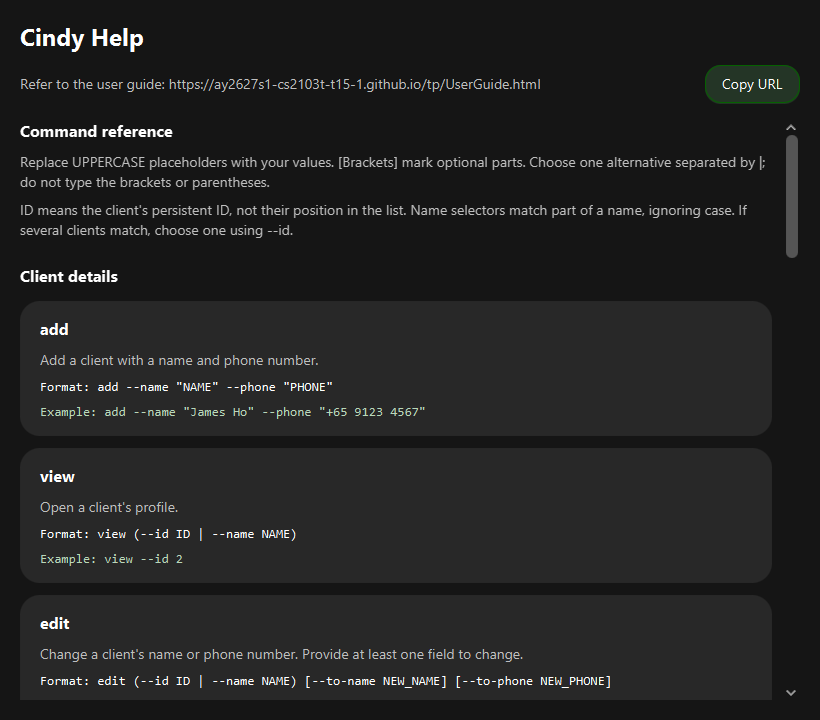
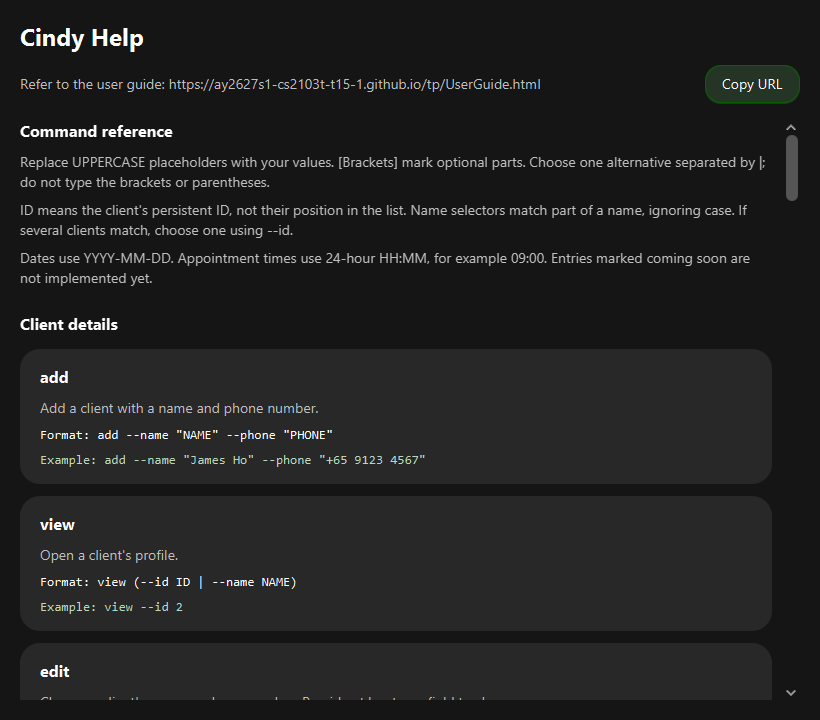
Add new command forms to Help

diff --git a/src/main/java/seedu/address/ui/HelpContent.java b/src/main/java/seedu/address/ui/HelpContent.java
@@ -2,30 +2,35 @@ package seedu.address.ui;
 
 import java.util.List;
 
+import seedu.address.logic.commands.AddAppointmentCommand;
 import seedu.address.logic.commands.AddCommand;
 import seedu.address.logic.commands.ClearCommand;
 import seedu.address.logic.commands.DeleteCommand;
 import seedu.address.logic.commands.EditCommand;
 import seedu.address.logic.commands.ExitCommand;
 import seedu.address.logic.commands.FindCommand;
+import seedu.address.logic.commands.GroupCommand;
 import seedu.address.logic.commands.HelpCommand;
 import seedu.address.logic.commands.ListCommand;
 import seedu.address.logic.commands.NoteCommand;
 import seedu.address.logic.commands.PlanCommand;
+import seedu.address.logic.commands.SessionCommand;
 import seedu.address.logic.commands.SetActiveCommand;
 import seedu.address.logic.commands.TagCommand;
 import seedu.address.logic.commands.ViewCommand;
 
 /**
  * Provides the command reference for the help window, independently of JavaFX controls.
- * Add entries when commands become available in the application parser.
+ * Mark planned commands as unavailable until the application parser implements them.
  */
 public final class HelpContent {
     private static final String CLIENT_DETAILS = "Client details";
     private static final String FINDING_CLIENTS = "Finding clients";
     private static final String TRAINING_INFORMATION = "Training information";
     private static final String CLIENT_STATUS = "Client status";
-    private static final String CLIENT_TYPE = "Client type";
+    private static final String CLIENT_TYPE = "Client types and groups";
+    private static final String APPOINTMENTS = "Appointments";
+    private static final String SESSIONS = "Session records";
     private static final String APPLICATION = "Application";
 
     private static final String CLIENT_SELECTOR = "(--id ID | --name NAME)";
@@ -55,10 +60,14 @@ public final class HelpContent {
                     "Show all clients.",
                     ListCommand.COMMAND_WORD,
                     "list"),
+            new CommandSummary(FINDING_CLIENTS, ListCommand.COMMAND_WORD,
+                    "Show clients with appointments today. This command option is not implemented yet.",
+                    ListCommand.COMMAND_WORD + " --today",
+                    "list --today", false),
             new CommandSummary(FINDING_CLIENTS, FindCommand.COMMAND_WORD,
                     "Find clients using at least one filter. Clients must match every supplied filter.",
-                    FindCommand.COMMAND_WORD + " [--name NAME] [--phone PHONE] [--id ID]",
-                    "find --name james --phone 9123"),
+                    FindCommand.COMMAND_WORD + " [--name NAME] [--phone PHONE] [--id ID] [--group GROUP]",
+                    "find --group morning --name james"),
             new CommandSummary(TRAINING_INFORMATION, NoteCommand.COMMAND_WORD,
                     "Replace a client's note. Double quotes are required; "
                             + "use \"\" to clear it and \\n for line breaks.",
@@ -80,6 +89,56 @@ public final class HelpContent {
                     "Set a client's type to gym or personal, replacing their previous type.",
                     TagCommand.COMMAND_WORD + " " + CLIENT_SELECTOR + " --type (gym | personal)",
                     "tag --id 2 --type gym"),
+            new CommandSummary(CLIENT_TYPE, GroupCommand.COMMAND_WORD,
+                    "Create a custom group. Group names use letters and digits; gym and personal are reserved.",
+                    GroupCommand.COMMAND_WORD + " --name GROUP",
+                    "group --name morning"),
+            new CommandSummary(CLIENT_TYPE, TagCommand.COMMAND_WORD,
+                    "Add a client to an existing custom group. Create the group first with group --name GROUP.",
+                    TagCommand.COMMAND_WORD + " " + CLIENT_SELECTOR + " --group GROUP",
+                    "tag --id 2 --group morning"),
+            new CommandSummary(CLIENT_TYPE, TagCommand.COMMAND_WORD,
+                    "Remove a tag from a client, keeping the group and the client's other details.",
+                    TagCommand.COMMAND_WORD + " " + CLIENT_SELECTOR + " --untag TAG",
+                    "tag --id 2 --untag morning"),
+            new CommandSummary(CLIENT_TYPE, GroupCommand.COMMAND_WORD,
+                    "Move a client between existing custom groups. The client must be in the source group.",
+                    GroupCommand.COMMAND_WORD + " --move " + CLIENT_SELECTOR + " --from GROUP --to GROUP",
+                    "group --move --id 2 --from morning --to evening"),
+            new CommandSummary(CLIENT_TYPE, TagCommand.COMMAND_WORD,
+                    "Delete a custom group and remove it from every client. gym and personal cannot be deleted.",
+                    TagCommand.COMMAND_WORD + " --delete --group GROUP",
+                    "tag --delete --group morning"),
+            new CommandSummary(APPOINTMENTS, AddAppointmentCommand.COMMAND_WORD,
+                    "Replace a client's appointments with four weekly appointments, starting on the given date.",
+                    AddAppointmentCommand.COMMAND_WORD + " --add " + CLIENT_SELECTOR
+                            + " --date YYYY-MM-DD --time HH:MM",
+                    "appointment --add --id 2 --date 2026-10-26 --time 09:00"),
+            new CommandSummary(APPOINTMENTS, AddAppointmentCommand.COMMAND_WORD,
+                    "Show all clients' appointments on a date, including cancelled appointments.",
+                    AddAppointmentCommand.COMMAND_WORD + " --date YYYY-MM-DD",
+                    "appointment --date 2026-10-26"),
+            new CommandSummary(APPOINTMENTS, AddAppointmentCommand.COMMAND_WORD,
+                    "Show appointments in the Monday to Sunday week containing the date, including cancellations.",
+                    AddAppointmentCommand.COMMAND_WORD + " --week YYYY-MM-DD",
+                    "appointment --week 2026-10-26"),
+            new CommandSummary(APPOINTMENTS, AddAppointmentCommand.COMMAND_WORD,
+                    "Cancel an appointment without deleting it. INDEX is its number in the client's profile (1 to 4).",
+                    AddAppointmentCommand.COMMAND_WORD + " --cancel " + CLIENT_SELECTOR + " --index INDEX",
+                    "appointment --cancel --id 2 --index 1"),
+            new CommandSummary(APPOINTMENTS, AddAppointmentCommand.COMMAND_WORD,
+                    "Change an appointment's date and time. A cancelled appointment becomes active again.",
+                    AddAppointmentCommand.COMMAND_WORD + " --reschedule " + CLIENT_SELECTOR
+                            + " --index INDEX --date YYYY-MM-DD --time HH:MM",
+                    "appointment --reschedule --id 2 --index 1 --date 2026-10-27 --time 18:00"),
+            new CommandSummary(SESSIONS, SessionCommand.COMMAND_WORD,
+                    "Record a dated session with an optional note. Only one session per client per date is allowed.",
+                    SessionCommand.COMMAND_WORD + " --add " + CLIENT_SELECTOR + " --date YYYY-MM-DD [--note TEXT]",
+                    "session --add --id 2 --date 2026-10-22 --note \"Squats: 3 sets\""),
+            new CommandSummary(SESSIONS, SessionCommand.COMMAND_WORD,
+                    "Replace an existing session's note. Use --note without text to clear it.",
+                    SessionCommand.COMMAND_WORD + " --edit " + CLIENT_SELECTOR + " --date YYYY-MM-DD --note [TEXT]",
+                    "session --edit --id 2 --date 2026-10-22 --note \"Improved squat depth\""),
             new CommandSummary(APPLICATION, ClearCommand.COMMAND_WORD,
                     "Show a confirmation prompt. With --confirm, permanently delete all clients and reset IDs to 1.",
                     ClearCommand.COMMAND_WORD + " [--confirm]",

diff --git a/src/test/java/seedu/address/ui/HelpContentTest.java b/src/test/java/seedu/address/ui/HelpContentTest.java
@@ -6,6 +6,7 @@ import static org.junit.jupiter.api.Assertions.assertThrows;
 import static org.junit.jupiter.api.Assertions.assertTrue;
 
 import java.util.HashSet;
+import java.util.List;
 import java.util.Set;
 
 import org.junit.jupiter.api.Test;
@@ -18,14 +19,13 @@ import seedu.address.logic.parser.AddressBookParser;
 public class HelpContentTest {
 
     @Test
-    public void getCommands_currentParserCommands_coversEachCommandOnce() {
+    public void getCommands_currentParserCommands_coversEveryCommandFamily() {
         Set<String> expectedCommands = Set.of("add", "view", "edit", "delete", "list", "find", "note", "plan",
-                "active", "inactive", "tag", "clear", "help", "exit");
+                "active", "inactive", "tag", "group", "appointment", "session", "clear", "help", "exit");
         Set<String> actualCommands = new HashSet<>();
 
         for (CommandSummary summary : HelpContent.getCommands()) {
-            assertTrue(actualCommands.add(summary.getCommandWord()),
-                    "Duplicate help entry: " + summary.getCommandWord());
+            actualCommands.add(summary.getCommandWord());
         }
 
         assertEquals(expectedCommands, actualCommands);
@@ -34,13 +34,34 @@ public class HelpContentTest {
     @Test
     public void getCommands_examples_parseAsTheirAdvertisedCommands() throws Exception {
         AddressBookParser parser = new AddressBookParser();
+        Set<String> expectedTypes = Set.of("AddCommand", "ViewCommand", "EditCommand", "DeleteCommand",
+                "ListCommand", "FindCommand", "NoteCommand", "PlanCommand", "SetActiveCommand", "TagCommand",
+                "GroupCommand", "MoveGroupCommand", "AddToGroupCommand", "UntagCommand", "DeleteGroupCommand",
+                "AddAppointmentCommand", "CancelAppointmentCommand", "RescheduleAppointmentCommand",
+                "ListAppointmentsCommand", "AddSessionCommand", "EditSessionCommand", "ClearCommand",
+                "HelpCommand", "ExitCommand");
+        Set<String> actualTypes = new HashSet<>();
+        Set<String> formats = new HashSet<>();
 
         for (CommandSummary summary : HelpContent.getCommands()) {
+            assertTrue(formats.add(summary.getSyntax()), "Duplicate command format: " + summary.getSyntax());
+            if (!summary.isAvailable()) {
+                continue;
+            }
             String example = summary.getExample();
             assertEquals(summary.getCommandWord(), example.split("\\s+", 2)[0]);
             assertTrue(summary.getSyntax().startsWith(summary.getCommandWord()));
-            parser.parseCommand(example);
+            actualTypes.add(parser.parseCommand(example).getClass().getSimpleName());
         }
+        assertEquals(expectedTypes, actualTypes);
+    }
+
+    @Test
+    public void getCommands_upcomingForms_onlyListsToday() {
+        List<CommandSummary> upcoming = HelpContent.getCommands().stream()
+                .filter(summary -> !summary.isAvailable()).toList();
+        assertEquals(List.of("list --today"), upcoming.stream().map(CommandSummary::getSyntax).toList());
+        assertEquals("list --today", upcoming.getFirst().getExample());
     }
 
     @Test

diff --git a/src/test/java/seedu/address/ui/HelpWindowTest.java b/src/test/java/seedu/address/ui/HelpWindowTest.java
@@ -63,13 +63,17 @@ public class HelpWindowTest {
                 for (int i = 0; i < cards.size(); i++) {
                     CommandSummary summary = HelpContent.getCommands().get(i);
                     Parent card = (Parent) cards.get(i);
-                    assertEquals(summary.getCommandWord(), ((Label) card.lookup(".help-command-name")).getText());
+                    String title = summary.getCommandWord() + (summary.isAvailable() ? "" : " (coming soon)");
+                    assertEquals(title, ((Label) card.lookup(".help-command-name")).getText());
                     assertEquals(summary.getDescription(), ((Label) card.lookup(".help-description")).getText());
                     assertEquals("Format: " + summary.getSyntax(), ((Label) card.lookup(".help-syntax")).getText());
                     assertEquals("Example: " + summary.getExample(), ((Label) card.lookup(".help-example")).getText());
                 }
-                assertEquals(6, summaries.getChildren().stream()
+                assertEquals(8, summaries.getChildren().stream()
                         .filter(node -> node.getStyleClass().contains("help-category")).count());
+                assertEquals(27, cards.size());
+                assertEquals(1, cards.stream().filter(card -> ((Label) card.lookup(".help-command-name"))
+                        .getText().equals("list (coming soon)")).count());
             } finally {
                 stage.hide();
             }

diff --git a/src/main/java/seedu/address/ui/CommandSummary.java b/src/main/java/seedu/address/ui/CommandSummary.java
@@ -12,17 +12,28 @@ public final class CommandSummary {
     private final String description;
     private final String syntax;
     private final String example;
+    private final boolean isAvailable;
 
     /**
      * Creates a command summary. All fields must be non-null.
      * The example is a complete input command, without an explanatory prefix.
      */
     public CommandSummary(String category, String commandWord, String description, String syntax, String example) {
+        this(category, commandWord, description, syntax, example, true);
+    }
+
+    /**
+     * Creates a summary with an availability flag. Unavailable commands are displayed as coming soon.
+     * All text fields must be non-null.
+     */
+    public CommandSummary(String category, String commandWord, String description, String syntax, String example,
+            boolean isAvailable) {
         this.category = requireNonNull(category);
         this.commandWord = requireNonNull(commandWord);
         this.description = requireNonNull(description);
         this.syntax = requireNonNull(syntax);
         this.example = requireNonNull(example);
+        this.isAvailable = isAvailable;
     }
 
     public String getCategory() {
@@ -43,5 +54,9 @@ public final class CommandSummary {
 
     public String getExample() {
         return example;
+    }
+
+    public boolean isAvailable() {
+        return isAvailable;
     }
 }

diff --git a/src/main/java/seedu/address/ui/HelpWindow.java b/src/main/java/seedu/address/ui/HelpWindow.java
@@ -64,8 +64,9 @@ public class HelpWindow extends UiPart<Stage> {
             card.getStyleClass().add("help-command-card");
             card.setMinWidth(0);
             card.setMinHeight(Region.USE_PREF_SIZE);
+            String title = summary.getCommandWord() + (summary.isAvailable() ? "" : " (coming soon)");
             card.getChildren().addAll(
-                    createLabel(summary.getCommandWord(), "help-command-name"),
+                    createLabel(title, "help-command-name"),
                     createLabel(summary.getDescription(), "help-description"),
                     createLabel("Format: " + summary.getSyntax(), "help-syntax"),
                     createLabel("Example: " + summary.getExample(), "help-example"));

diff --git a/docs/UserGuide.md b/docs/UserGuide.md
@@ -86,6 +86,7 @@ You can also open it from **Help > Help** in the menu or by pressing **F1** in t
 ![Cindy Help window showing grouped command summaries, syntax, examples and the User Guide controls](images/helpMessage.png)
 
 * Commands are grouped by purpose. Each command has a short description, its format and an example you can type in the command box.
+* The reference includes groups, appointments and session records. Entries marked **coming soon**, such as `list --today`, describe planned features that are not implemented yet.
 * The syntax guide explains placeholders, optional parameters and alternatives. For example, `view (--id ID | --name NAME)` means use either `view --id 2` or `view --name james`; do not type the parentheses or `|`.
 * Resize the window or scroll down to see the remaining commands and keyboard shortcuts. Long descriptions and command formats wrap to fit the window.
 * The User Guide URL and **Copy URL** button stay at the top while you scroll. Click **Copy URL**, then paste it into your browser to read the full guide. The command summary itself is available without an internet connection.
@@ -139,6 +140,14 @@ Format: `list`
 * Clients are sorted by name, ignoring upper and lower case. For example, `alice Tan` is listed before `Bob Lim`.
 * The client list is always kept in this order, including after you `add` or `edit` a client and in the results of `find`.
 * If a previous command (such as `find`) showed only some clients, `list` shows all of them again.
+
+### Listing today's clients: `list --today` [coming soon]
+
+Planned shortcut for showing clients with appointments today.
+
+Planned format: `list --today`
+
+This option is not implemented yet. To view today's appointments with the current version, use `appointment --date YYYY-MM-DD`, replacing the date with today's date.
 
 ### Editing a client: `edit`
 
@@ -425,6 +434,30 @@ Format: `tag --delete --group GROUP`
 Examples:
 * `tag --delete --group morning` deletes the group `morning` and removes it from every client in it.
 
+### Recording a training session: `session --add`
+
+Records a session for a client on a date, optionally with a note.
+
+Format: `session --add (--id ID | --name NAME) --date YYYY-MM-DD [--note TEXT]`
+
+* Choose one client by ID or name. There can be only one session per client per date; use `session --edit` to change an existing session's note.
+* Dates must be real dates in `YYYY-MM-DD` format. Future dates are allowed.
+* Notes are optional. You can put them in double quotes, especially when they contain text that looks like a flag.
+* The client's profile shows up to four sessions, newest first. Older sessions remain saved.
+
+Example: `session --add --id 2 --date 2026-10-22 --note "Squats: 3 sets"`
+
+### Editing a training session: `session --edit`
+
+Replaces the note of an existing session for a client on a date.
+
+Format: `session --edit (--id ID | --name NAME) --date YYYY-MM-DD --note [TEXT]`
+
+* The client and session date must already exist. This command changes the note, not the date.
+* `--note` is required. Leave the text empty, or use `--note ""`, to clear the note while keeping the session.
+
+Example: `session --edit --id 2 --date 2026-10-22 --note "Improved squat depth"`
+
 ### Clearing all entries: `clear`
 
 Deletes all clients from Cindy after confirmation.
@@ -517,6 +550,7 @@ Action     | Format, Examples
 **Edit**   | `edit --id ID [--to-name NEW_NAME] [--to-phone NEW_PHONE]` (at least one change; or `--name NAME` instead of `--id ID`)<br> e.g., `edit --id 2 --to-name "James Lee"`
 **Find**   | `find [--name NAME] [--phone PHONE] [--id ID] [--group GROUP]` (at least one)<br> e.g., `find --name james`, `find --group morning`
 **List**   | `list`
+**Today (coming soon)** | `list --today` will show clients with appointments today; this option is not implemented yet
 **Plan**   | `plan --id ID --plan "TEXT"` (or `--name NAME` instead of `--id ID`)<br> e.g., `plan --id 2 --plan "Squats: 3 sets"`
 **Schedule appointments** | `appointment --add --id ID --date DATE --time TIME` (or `--name NAME` instead of `--id ID`)<br> e.g., `appointment --add --id 2 --date 2026-10-26 --time 09:00`
 **Cancel appointment** | `appointment --cancel --id ID --index INDEX` (or `--name NAME` instead of `--id ID`)<br> e.g., `appointment --cancel --id 2 --index 1`
@@ -531,6 +565,8 @@ Action     | Format, Examples
 **Move group** | `group --move --id ID --from GROUP --to GROUP` (or `--name NAME` instead of `--id ID`)<br> e.g., `group --move --id 2 --from morning --to evening`
 **Delete group** | `tag --delete --group GROUP`<br> e.g., `tag --delete --group morning`
 **Group**  | `group --name GROUP`<br> e.g., `group --name morning`
+**Add session** | `session --add (--id ID \| --name NAME) --date YYYY-MM-DD [--note TEXT]`<br> e.g., `session --add --id 2 --date 2026-10-22 --note "Squats: 3 sets"`
+**Edit session** | `session --edit (--id ID \| --name NAME) --date YYYY-MM-DD --note [TEXT]` (omit TEXT to clear the note)<br> e.g., `session --edit --id 2 --date 2026-10-22 --note "Improved squat depth"`
 **Help**   | `help`, **Help > Help** in the menu, or **F1** in the main window
 **Exit**   | `exit`
 **Recall commands** | Up / Down while the command box has focus; Enter executes the recalled command

diff --git a/docs/DeveloperGuide.md b/docs/DeveloperGuide.md
@@ -175,13 +175,13 @@ This section describes some noteworthy details on how certain features are imple
 
 ### Help window
 
-`HelpContent` provides an immutable list of `CommandSummary` objects in display order. Each summary contains a category, command word, description, syntax and a complete example. The catalog is independent of JavaFX and describes commands supported by `AddressBookParser`.
+`HelpContent` provides an immutable list of `CommandSummary` objects in display order. Each summary contains a category, command word, description, syntax, a complete example and an availability flag. The catalog is independent of JavaFX. Implemented entries describe commands supported by `AddressBookParser`; planned entries such as `list --today` have `isAvailable` set to `false` and are displayed as coming soon.
 
 `HelpWindow` renders each summary as a card, adding a heading whenever the category changes. `HelpWindow.fxml` keeps the User Guide controls outside the command reference's `ScrollPane`. The window is resizable, the scroll pane fits its content to the available width, and labels wrap without shrinking below their preferred height. `HelpWindow.css` uses Cindy's existing dark colors and typography. `MainWindow` retains one help window, shared by the `help` command, Help menu and F1 shortcut.
 
-When adding or changing a command, update `HelpContent` and the User Guide's command summary together. Keep entries for each category contiguous, use a complete parsable command as the example, and add commands only when they are supported by the application parser. The short descriptions are maintained separately from command error messages so that the reference stays concise.
+When adding or changing a command, update `HelpContent` and the User Guide's command summary together. Keep entries for each category contiguous and give each distinct command form its own entry with a unique syntax. Use a complete parsable command as the example for implemented entries. Planned entries must have `isAvailable` set to `false`; change it to `true` only when the behavior is implemented, not merely when the parser ignores an unsupported option. The short descriptions are maintained separately from command error messages so that the reference stays concise.
 
-`HelpContentTest` checks command coverage, unique entries, parsable examples, category grouping and immutability. `HelpWindowTest` checks that the real FXML displays the catalog, wraps and scrolls at a small size, keeps the guide controls fixed, copies the URL and reopens without duplicating entries. See the [manual help-window checks](#viewing-help) for entry-point and keyboard checks in the running application.
+`HelpContentTest` checks command-family and parsed command-type coverage, unique formats, implemented examples, planned entries, category grouping and immutability. `HelpWindowTest` checks that the real FXML displays the catalog and coming-soon label, wraps and scrolls at a small size, keeps the guide controls fixed, copies the URL and reopens without duplicating entries. See the [manual help-window checks](#viewing-help) for entry-point and keyboard checks in the running application.
 
 ### Command history
 
@@ -692,7 +692,9 @@ Use a disposable copy of Cindy and its data for these checks. Opening help shoul
    1. Check the syntax and client-selector guidance above the command cards.<br>
       Expected: It explains placeholders, optional parts, alternatives, persistent client IDs and ambiguous names.
    1. Scroll through the reference.<br>
-      Expected: There are 14 command cards in six groups: Client details (`add`, `view`, `edit`, `delete`), Finding clients (`list`, `find`), Training information (`note`, `plan`), Client status (`active`, `inactive`), Client type (`tag`) and Application (`clear`, `help`, `exit`). Each has a description, format and example. Group, appointment and session commands are not advertised until they are implemented.
+      Expected: There are 27 command cards in eight groups: Client details, Finding clients, Training information, Client status, Client types and groups, Appointments, Session records and Application. Each has a description, format and example. The reference covers group creation and moving, tagging and untagging, group deletion, appointment scheduling/day/week/cancellation/rescheduling, and session add/edit.
+   1. Find the `list --today` card.<br>
+      Expected: Its heading says `list (coming soon)` and its description says the option is not implemented yet. Do not treat it as a working filter: the current parser ignores arguments to `list`.
    1. Scroll to the bottom.<br>
       Expected: The `exit` card and keyboard shortcuts are reachable. The User Guide URL and Copy URL button remain visible at the top. Reading examples does not execute them.
 

diff --git a/docs/Testing.md b/docs/Testing.md
@@ -41,7 +41,7 @@ blank input, modifier keys (including Down while browsing), repeated failures an
 (Mac/Linux: use `./gradlew`). The Developer Guide also provides
 [manual command-history checks](DeveloperGuide.md#recalling-commands).
 
-`HelpContentTest` checks the help catalog without starting JavaFX, including parsing every advertised example with the real command parser. `HelpWindowTest` loads the Help window's FXML and checks command rendering, wrapping and scrolling in a small window, fixed guide controls, URL copying and reopening. The clipboard test restores its previous contents afterwards. Run both classes with
+`HelpContentTest` checks the help catalog without starting JavaFX, including parsing every implemented example with the real command parser and covering each command implementation. It checks planned entries separately: `list --today` must be marked unavailable until it is implemented. `HelpWindowTest` loads the Help window's FXML and checks command rendering, the coming-soon label, wrapping and scrolling in a small window, fixed guide controls, URL copying and reopening. The clipboard test restores its previous contents afterwards. Run both classes with
 `gradlew test --tests seedu.address.ui.HelpContentTest --tests seedu.address.ui.HelpWindowTest`
 (Mac/Linux: use `./gradlew`). See the [manual help-window checks](DeveloperGuide.md#viewing-help)
 for menu and F1 entry points, keyboard navigation, offline use and preserving the current client view.
